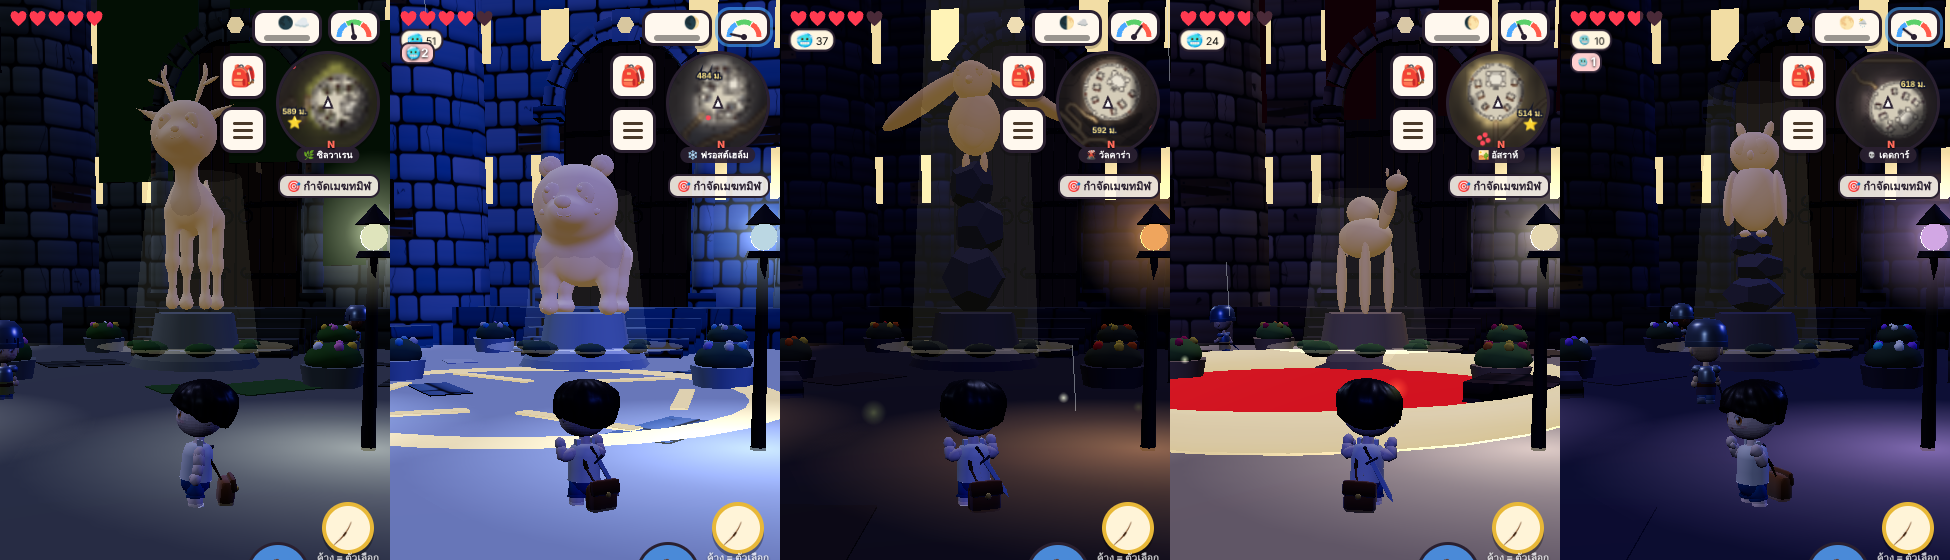
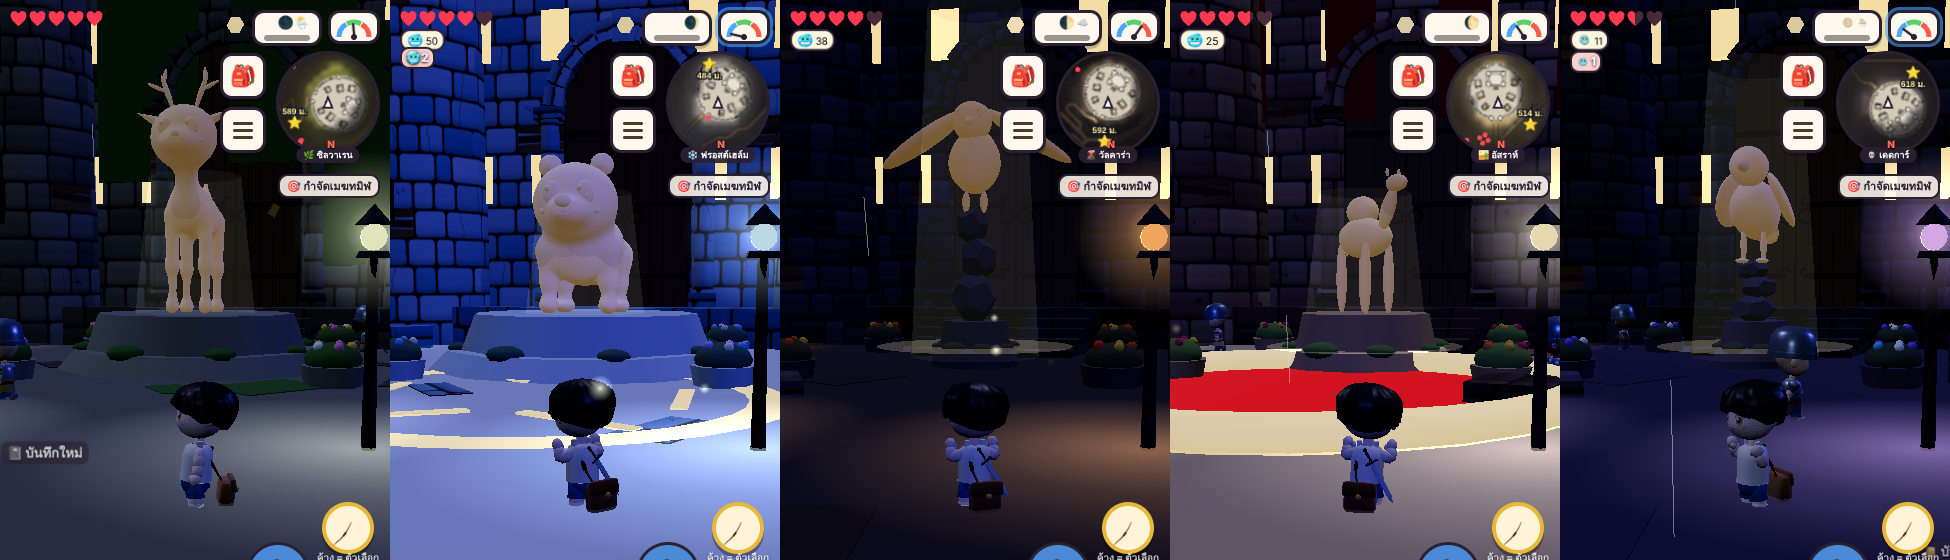
newgame: Deadgar statue is a crow; plinths sized to each statue
Claude-Session: https://claude.ai/code/session_01GPWeNez232vT9ersFNk7wt

diff --git a/newgame/src/main.js b/newgame/src/main.js
@@ -4792,15 +4792,20 @@ function capTick(now) { if (now < capT) return; capT = now + 400; const q = me()
 /* v5.12 🦌 a restored capital's square: a statue of the kingdom's animal on a mossy plinth + planters + lamps round the plaza · uplit at night (designer: one kingdom at a time) */
 const STATUE_A = { camel(g) { const P = (p, z, r = [0, 0, 0]) => part(g, '#a8845a', '#d8b888', p, z, r, { A: .03 }); P([0, 1.0, 0], [.28, .26, .52]); P([0, 1.34, -.06], [.2, .2, .24]); for (const [x, z] of [[-.17, .32], [.17, .32], [-.17, -.34], [.17, -.34]]) P([x, .48, z], [.07, .48, .07]);
     P([0, 1.32, .58], [.09, .3, .09], [.55, 0, 0]); P([0, 1.62, .78], [.1, .1, .2]); for (const sx of [-1, 1]) P([sx * .08, 1.75, .7], [.025, .05, .02]); P([0, .95, -.55], [.03, .18, .03], [-.3, 0, 0]) },
+  crow(g) { const P = (p, z, r = [0, 0, 0]) => part(g, '#2a2a30', '#5a5a66', p, z, r, { A: .03 }); P([0, .42, -.02], [.2, .22, .32], [-.25, 0, 0]); P([0, .72, .24], [.15, .15, .16]); part(g, '#2a2a30', '#5a5a66', [0, .7, .44], [.04, .045, .13], [.12, 0, 0], { A: 0 });
+    for (const sx of [-1, 1]) { P([sx * .2, .5, -.08], [.05, .2, .34], [-.3, 0, sx * .5]); P([sx * .08, .14, .06], [.025, .14, .025]); P([sx * .08, .02, .12], [.05, .02, .08]) } P([0, .3, -.42], [.12, .03, .22], [-.55, 0, 0]) },
   owl(g) { const P = (p, z, r = [0, 0, 0]) => part(g, '#7a5a3a', '#c09a6a', p, z, r, { A: .03 }); P([0, .45, 0], [.28, .36, .26]); P([0, .92, .02], [.27, .22, .24]); for (const sx of [-1, 1]) { P([sx * .15, 1.15, 0], [.05, .1, .04], [0, 0, -sx * .35]); P([sx * .1, .95, .22], [.085, .085, .03]); P([sx * .27, .45, -.02], [.07, .3, .2], [0, 0, sx * .12]); P([sx * .09, .06, .1], [.06, .04, .08]) }
     P([0, .86, .26], [.035, .05, .04]); P([0, .2, -.25], [.12, .05, .1], [-.5, 0, 0]) } };
 function capPlaza(k, V, on) { if (V.plz) { scene.remove(V.plz); V.plz.traverse(o => { if (o.isMesh || o.isInstancedMesh) o.geometry.dispose() }); V.plz = null } const P = D.CAP_PLAZA[k]; if (!on || !P) return; const c = CAPS[k], g = new THREE.Group(), Lk = V.B.look;
   const stone = new THREE.MeshStandardMaterial({ color: P.stone, roughness: .8, metalness: .03, emissive: '#ffcf80', emissiveIntensity: 0 }), moss = new THREE.MeshStandardMaterial({ color: P.bush || Lk.moss || '#4f7a34', roughness: .95 }), pl = new THREE.MeshStandardMaterial({ color: Lk.stone, roughness: .9 });
-  const st = new THREE.Group(); g.add(st); const ped = new THREE.Mesh(new THREE.CylinderGeometry(1.5, 1.8, .55, 10), pl); ped.position.y = .27; st.add(ped); const ped2 = new THREE.Mesh(new THREE.CylinderGeometry(1.05, 1.2, .9, 10), pl); ped2.position.y = 1.0; st.add(ped2); let top = 1.45;
-  if (P.pillar) { for (let i = 0; i < 3; i++) { const r = new THREE.Mesh(new THREE.DodecahedronGeometry(.85 - i * .12, 0), pl); r.scale.y = P.pillar / 2.4; r.position.set(Math.sin(i * 2.1) * .12, top + (.85 - i * .12) * P.pillar / 2.4, Math.cos(i * 2.1) * .12); r.rotation.y = i * 1.3; st.add(r); top += (1.6 - i * .24) * P.pillar / 2.4 * .82 } }   /* a crag of stacked rock for a bird to stand on */
-  for (let i = 0; i < 7; i++) { const a = i / 7 * 6.283 + .4, m = new THREE.Mesh(new THREE.SphereGeometry(.32 + (i % 3) * .08, 8, 6), moss); m.scale.y = .45; m.position.set(Math.cos(a) * 1.55, .58, Math.sin(a) * 1.55); st.add(m) }   /* moss on the plinth's lip */
-  const an = new THREE.Group(); (ANIMALS[P.animal] || STATUE_A[P.animal])(an); an.traverse(o => { if (o.isMesh) { o.material = stone; o.castShadow = !eco } }); if (P.wings) an.traverse(o => { const r = o.userData.role; if (r === 'armL' || r === 'armR') { const sx = r === 'armL' ? -1 : 1; o.rotation.z = sx * P.wings; o.position.x += sx * .12; o.position.y += .14; o.scale.x *= 1.6 } });   /* 🦅 wings spread wide */
-  an.scale.setScalar(P.scale); an.position.y = top - .05; an.rotation.y = P.face || 0; st.add(an);
+  const an = new THREE.Group(); (ANIMALS[P.animal] || STATUE_A[P.animal])(an); an.traverse(o => { if (o.isMesh) { o.material = stone; o.castShadow = !eco } });
+  if (P.wings) an.traverse(o => { const r = o.userData.role; if (r === 'armL' || r === 'armR') { const sx = r === 'armL' ? -1 : 1; o.rotation.z = sx * P.wings; o.position.x += sx * .12; o.position.y += .14; o.scale.x *= 1.6 } });   /* 🦅 wings spread wide */
+  an.scale.setScalar(P.scale); an.rotation.y = P.face || 0; an.updateMatrixWorld(true); const bb = new THREE.Box3().setFromObject(an), foot = Math.max(.45, Math.max(-bb.min.x, bb.max.x, -bb.min.z, bb.max.z));   /* v5.12 the plinth fits the statue (designer) */
+  const r2 = P.pillar ? .85 : foot * 1.05, r1 = r2 * 1.25, h2 = P.pillar ? .7 : .9;
+  const st = new THREE.Group(); g.add(st); const ped = new THREE.Mesh(new THREE.CylinderGeometry(r1, r1 * 1.15, .55, 12), pl); ped.position.y = .27; st.add(ped); const ped2 = new THREE.Mesh(new THREE.CylinderGeometry(r2, r2 * 1.12, h2, 12), pl); ped2.position.y = .55 + h2 / 2; st.add(ped2); let top = .55 + h2;
+  if (P.pillar) { const rr = .62; for (let i = 0; i < 3; i++) { const sz = rr * (1 - i * .14), r = new THREE.Mesh(new THREE.DodecahedronGeometry(sz, 0), pl); r.scale.y = P.pillar / 2.4; r.position.set(Math.sin(i * 2.1) * .1, top + sz * P.pillar / 2.4 * .9, Math.cos(i * 2.1) * .1); r.rotation.y = i * 1.3; st.add(r); top += sz * 2 * P.pillar / 2.4 * .82 } }   /* a crag of stacked rock for a bird to stand on */
+  for (let i = 0; i < 8; i++) { const a = i / 8 * 6.283 + .4, m = new THREE.Mesh(new THREE.SphereGeometry((.22 + (i % 3) * .06) * Math.min(1.4, r1 / 1.5 + .3), 8, 6), moss); m.scale.y = .45; m.position.set(Math.cos(a) * r1 * .9, .58, Math.sin(a) * r1 * .9); st.add(m) }   /* moss on the plinth's lip */
+  an.position.y = top - .05 - bb.min.y; st.add(an);
   for (let i = 0; i < 4; i++) { const a = i / 4 * 6.283 + .785, x = Math.cos(a) * 5.2, z = Math.sin(a) * 5.2, pt = new THREE.Mesh(new THREE.CylinderGeometry(.7, .6, .5, 8), pl); pt.position.set(x, .25, z); g.add(pt); const b = new THREE.Mesh(new THREE.SphereGeometry(.62, 8, 6), moss); b.scale.y = .6; b.position.set(x, .62, z); g.add(b);
     for (let j = 0; j < 5; j++) { const f = new THREE.Mesh(new THREE.SphereGeometry(.11, 6, 5), new THREE.MeshStandardMaterial({ color: P.flowers[j % P.flowers.length], roughness: .7 })); const fa = j / 5 * 6.283 + i; f.position.set(x + Math.cos(fa) * .38, .9, z + Math.sin(fa) * .38); g.add(f) } }   /* four planters */
   const up = new THREE.Mesh(new THREE.CircleGeometry(2.6, 28), new THREE.MeshBasicMaterial({ color: '#ffd890', transparent: true, opacity: 0, depthWrite: false, blending: THREE.AdditiveBlending })); up.rotation.x = -Math.PI / 2; up.position.y = .58; g.add(up);

diff --git a/newgame/src/data.js b/newgame/src/data.js
@@ -376,7 +376,7 @@ export const CAP_PLAZA = {   // v5.12 🦌 restored capitals' squares: the statu
   frosthelm: { animal: 'bear', scale: 2.0, stone: '#dfe8f0', flowers: ['#9fd4ff', '#ffffff', '#c8b8ff'], bush: '#5a7a6a', lamps: 8, r: 11, a0: .39 },
   valkara:   { animal: 'hawk', scale: 3.4, wings: -.55, stone: '#8a7a72', flowers: ['#ff7a1a', '#ffd23f', '#ff4a2a'], bush: '#5a5a34', lamps: 8, r: 11, a0: .39, pillar: 2.6 },
   asrah:     { animal: 'camel', scale: 2.0, face: .7, stone: '#e0c89a', flowers: ['#ff4a6a', '#ffd84a', '#ff9a3a'], bush: '#7a9a4a', lamps: 8, r: 11, a0: .39 },
-  deadgar:   { animal: 'owl', scale: 2.4, stone: '#a8a0b4', flowers: ['#b06aff', '#ffffff', '#7ad8ff'], bush: '#4a5a4a', lamps: 8, r: 11, a0: .39, pillar: 1.4 } };
+  deadgar:   { animal: 'crow', scale: 3.3, stone: '#a8a0b4', flowers: ['#b06aff', '#ffffff', '#7ad8ff'], bush: '#4a5a4a', lamps: 8, r: 11, a0: .39, pillar: 1.4 } };
 export const TOWN_LIGHT = { n: 6, r: 7.6, a0: .26 }, FOUNTAIN = { bowl: .95, top: 1.55 };   // v5.09 💡 lamps round the harbour square · 🌊 the fountain's jets (basin radius · how high they start)
 export const FIRE_REST = { en: 2, auto: 2500, crackle: 1400 };   // v4.99 🔥 (designer) sit by a lit fire: ⚡ ×en · standing still auto ms = sit down by itself · a crackle every ~ms
 export const PARRY2 = { tell: 380, win: 300, stun: 1100, counter: 2, cwin: 1600, stop: 220 };   // v5.00 🛡 (designer: game feel) B pressed ≤win ms before a hit = perfect parry: no damage · the foe staggers stun ms · your next hit within cwin ms ×counter
